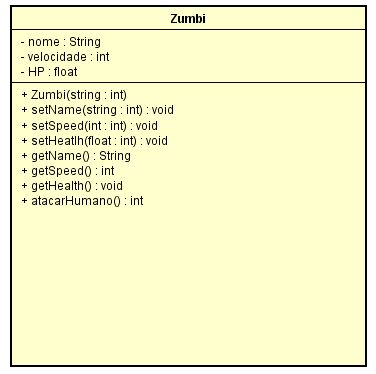
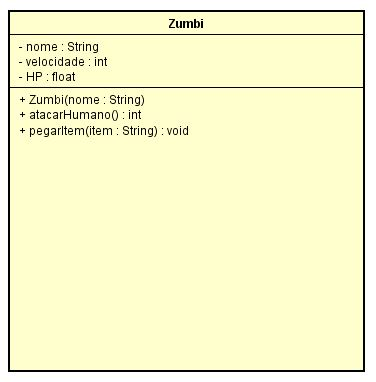
Diagrama UML atualizado

Changed region(s): [[0.0, 0.0, 0.9947, 1.0], [0.3511, 0.5294, 0.3803, 0.5588]]

diff --git a/Zumbi.h b/Zumbi.h
@@ -6,7 +6,7 @@ class Zumbi {
 	private:
 		string nome;
 		int velocidade;
-		float HP;
+		float hp;
 	public:
 		Zumbi(string);
 		void setName(string);
@@ -16,4 +16,5 @@ class Zumbi {
 		int getSpeed();
 		float getHealth();
 		int atacarHumano();
+		void pegarItem(string);
 };

diff --git a/Zumbi.cpp b/Zumbi.cpp
@@ -35,6 +35,10 @@ int Zumbi::getSpeed(){
 	return velocidade;
 }
 
+void Zumbi::pegarItem(string item){
+	
+}
+
 int Zumbi::atacarHumano(){
 	int VidaH=vh, Sh=200, Sz=300, opt, maismenos, atk, total;
 	float hp;
